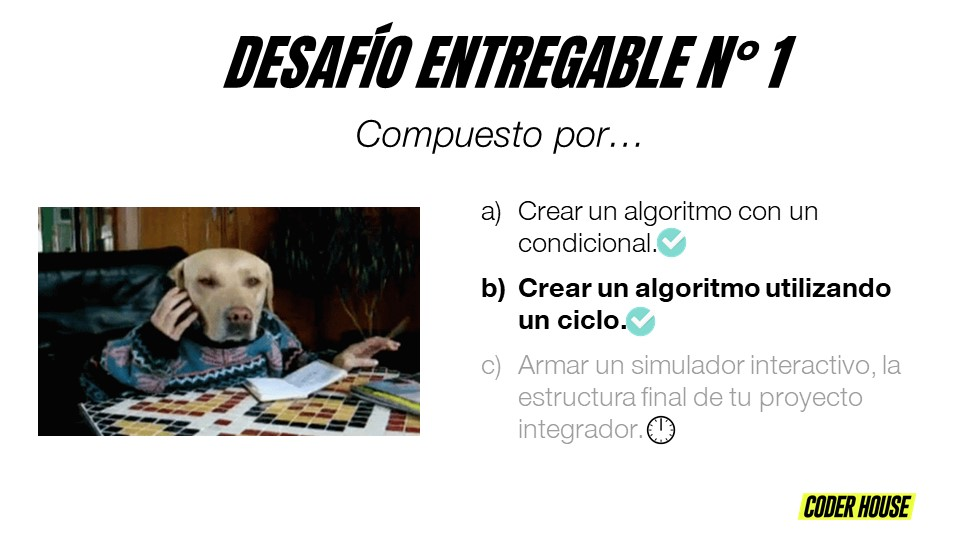
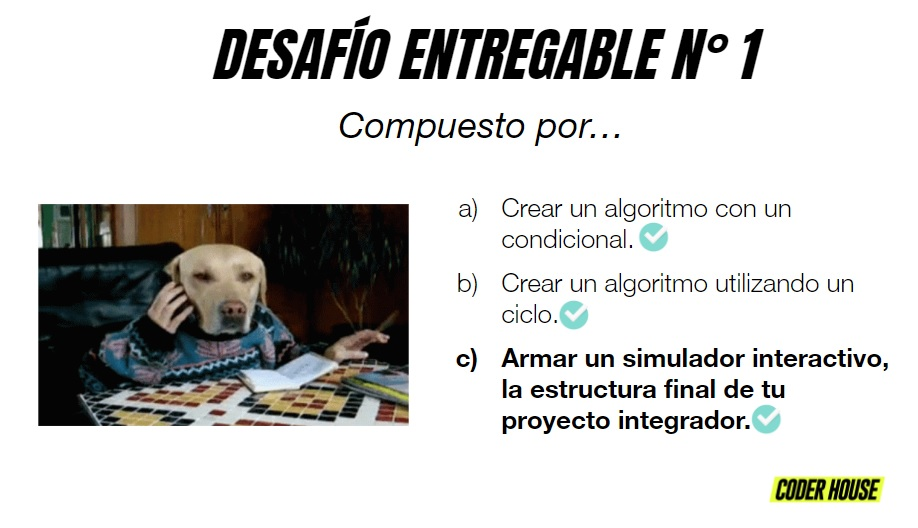
Desafio N°2

diff --git a/entregable2.js b/entregable2.js
@@ -1,0 +1,57 @@
+// Desafio Entregable N°1 - Proyecto integrador
+// Armar un simulador interactivo, la estructura final de tu proyecto integrador.
+// Calcular pagos en cuotas sobre un monto determinado.
+
+
+function calculodecuotas(){
+    let plandecuotas= prompt("Indique el plan de cuotas con el que desea realizar su compra: \n 1 - Plan 3 cotas \n 2 - Plan 6 cotas \n 3 - Plan 12 cotas \n Ingrese las letras ESC para salir de calculador");
+    while (plandecuotas!=="ESC"){
+        switch(plandecuotas){
+            case "1":
+                alert(trescuotas());
+            break;
+            case "2":
+                alert(seiscuotas());
+            break;
+            case "3":
+                alert(docecuotas());
+            break;
+            default: 
+                alert("Error, debe ingresar una opcion correspondiente al plan de cuotas que desea");
+            break;
+        }
+        plandecuotas= prompt("Indique el plan de cuotas con el que desea realizar su compra: \n 1 - Plan 3 cotas \n 2 - Plan 6 cotas \n 3 - Plan 12 cotas \n Ingrese las letras ESC para salir de calculador");
+        
+        }
+        alert("Muchas gracias por realizar su calculo de cuotas con nosotros"); 
+}
+
+function trescuotas(){
+    let costodelproducto=parseInt(prompt("Ingrese el precio sugerido al publico del producto que desea"));    
+     while (isNaN(costodelproducto)) {
+     costodelproducto=parseInt(prompt("Ingrese el precio sugerido al publico en pesos argentinos"));
+      }
+     costodelproducto=(costodelproducto/3)
+   return (("El monto a cancelar en el plan de tres cuotas es:" +" "+(costodelproducto.toFixed(2))+" "+"$Ars por cuotas"));
+}
+
+function seiscuotas(){
+    let costodelproducto=parseInt(prompt("Ingrese el precio sugerido al publico del producto que desea"));    
+     while (isNaN(costodelproducto)) {
+     costodelproducto=parseInt(prompt("Ingrese el precio sugerido al publico en pesos argentinos"));
+      }
+     costodelproducto=(costodelproducto/6)
+   return (("El monto a cancelar en el plan de tres cuotas es:" +" "+(costodelproducto.toFixed(2))+" "+"$Ars por cuotas"));
+}
+
+function docecuotas(){
+    let costodelproducto=parseInt(prompt("Ingrese el precio sugerido al publico del producto que desea"));   
+     while (isNaN(costodelproducto)) {
+     costodelproducto=parseInt(prompt("Ingrese el precio sugerido al publico en pesos argentinos"));
+      }
+     costodelproducto=(costodelproducto/12)
+   return (("El monto a cancelar en el plan de tres cuotas es:" +" "+(costodelproducto.toFixed(2))+" "+"$Ars por cuotas"));
+
+}
+
+calculodecuotas()

diff --git a/Index.html b/Index.html
@@ -6,9 +6,9 @@
     <title>Desafío entregable N° 1 curso - JS</title>
     <meta name='viewport' content='width=device-width, initial-scale=1'>
     <link rel='stylesheet' type='text/css' media='screen' href='main.css'>
-    <script src='entregable1.js'></script>
+    <script src='entregable2.js'></script>
 
-    
+    s
 </head>
 <body>
     <img src="ciclos.jpg" >
